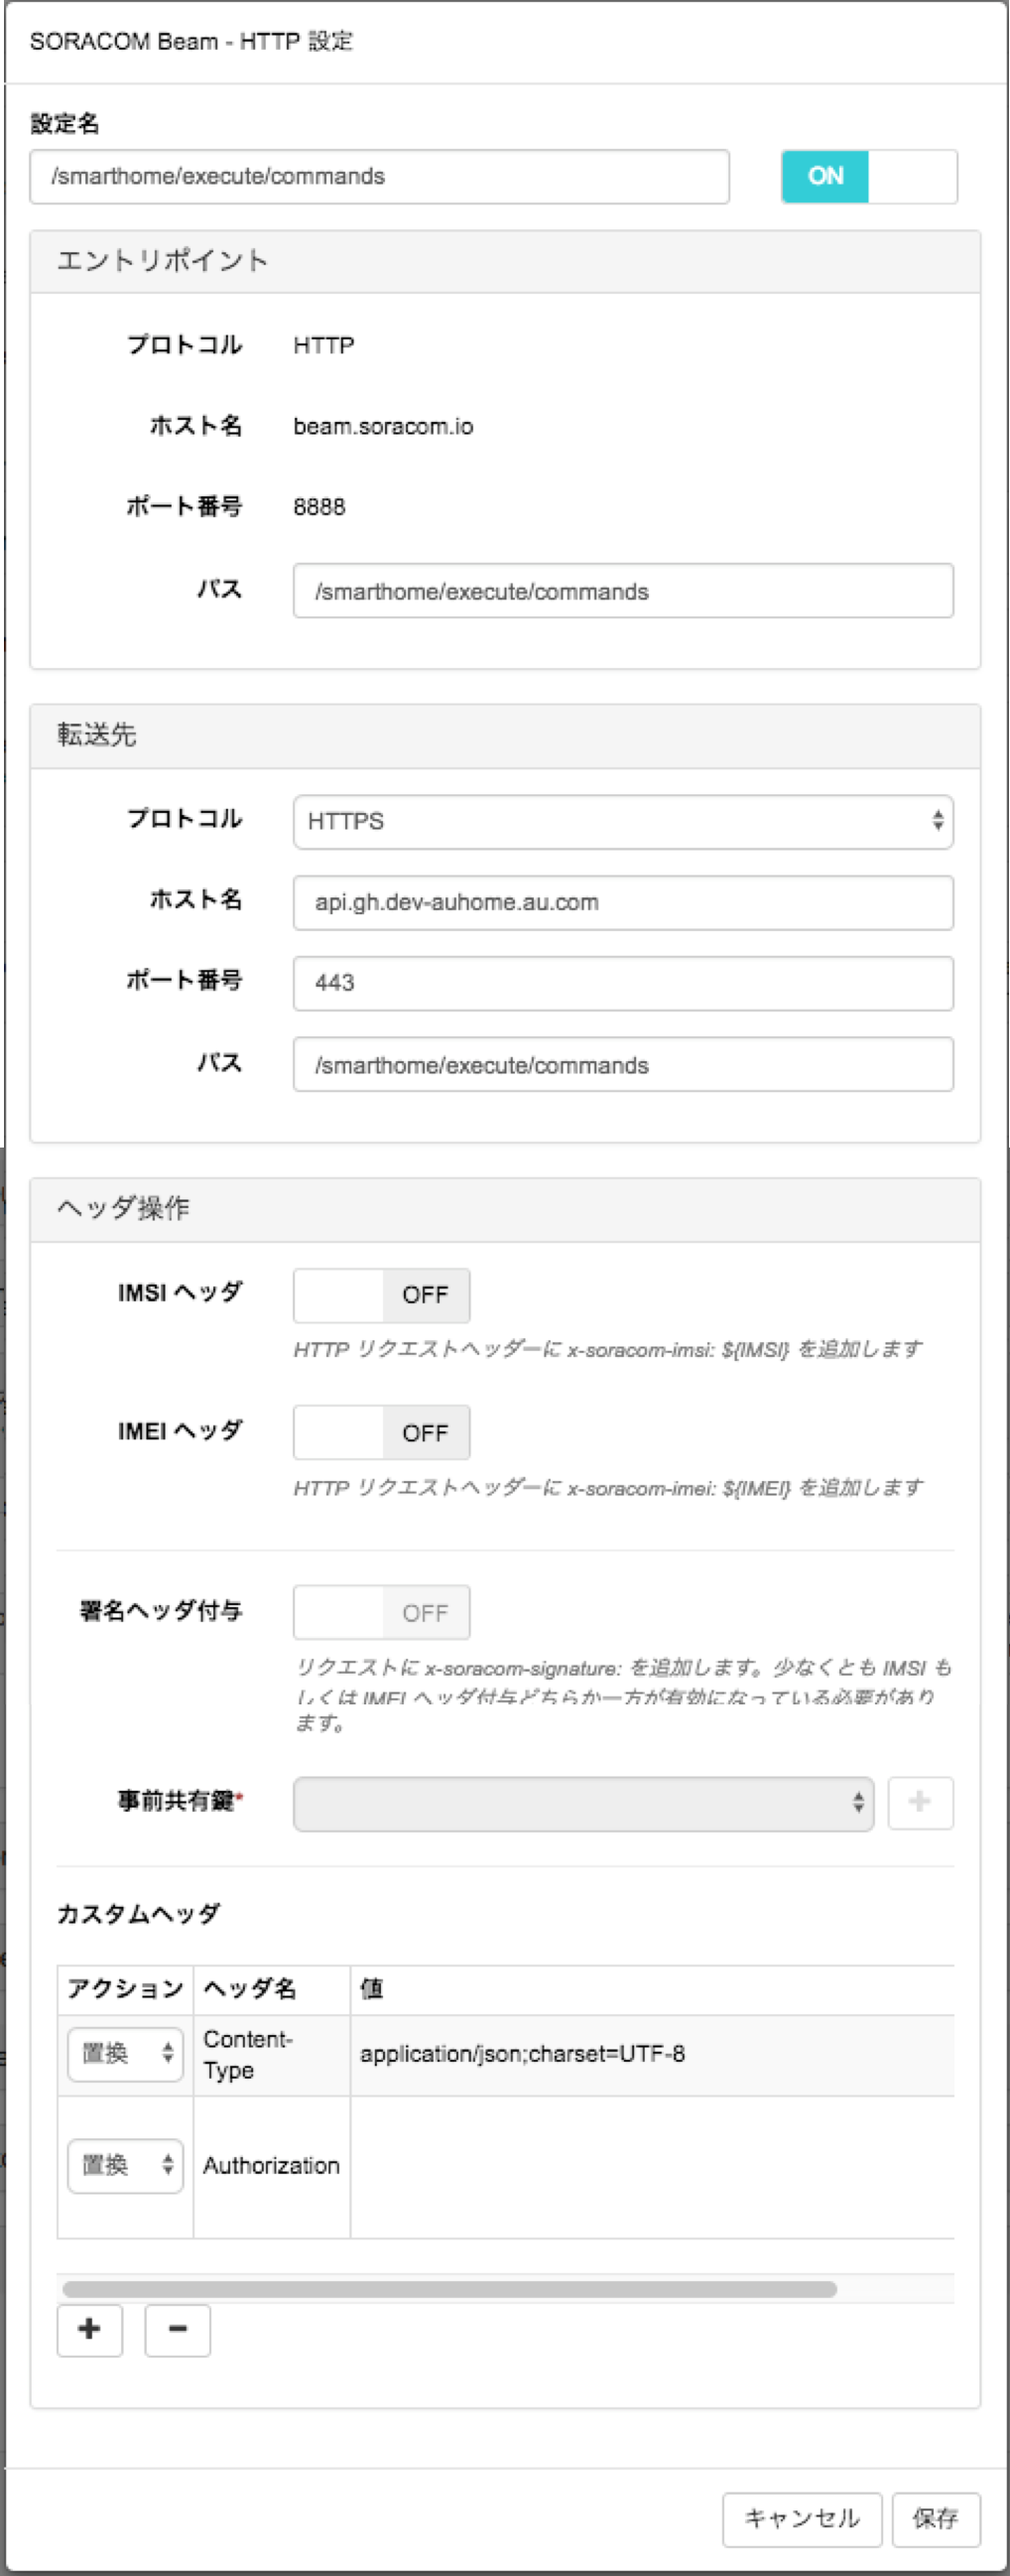
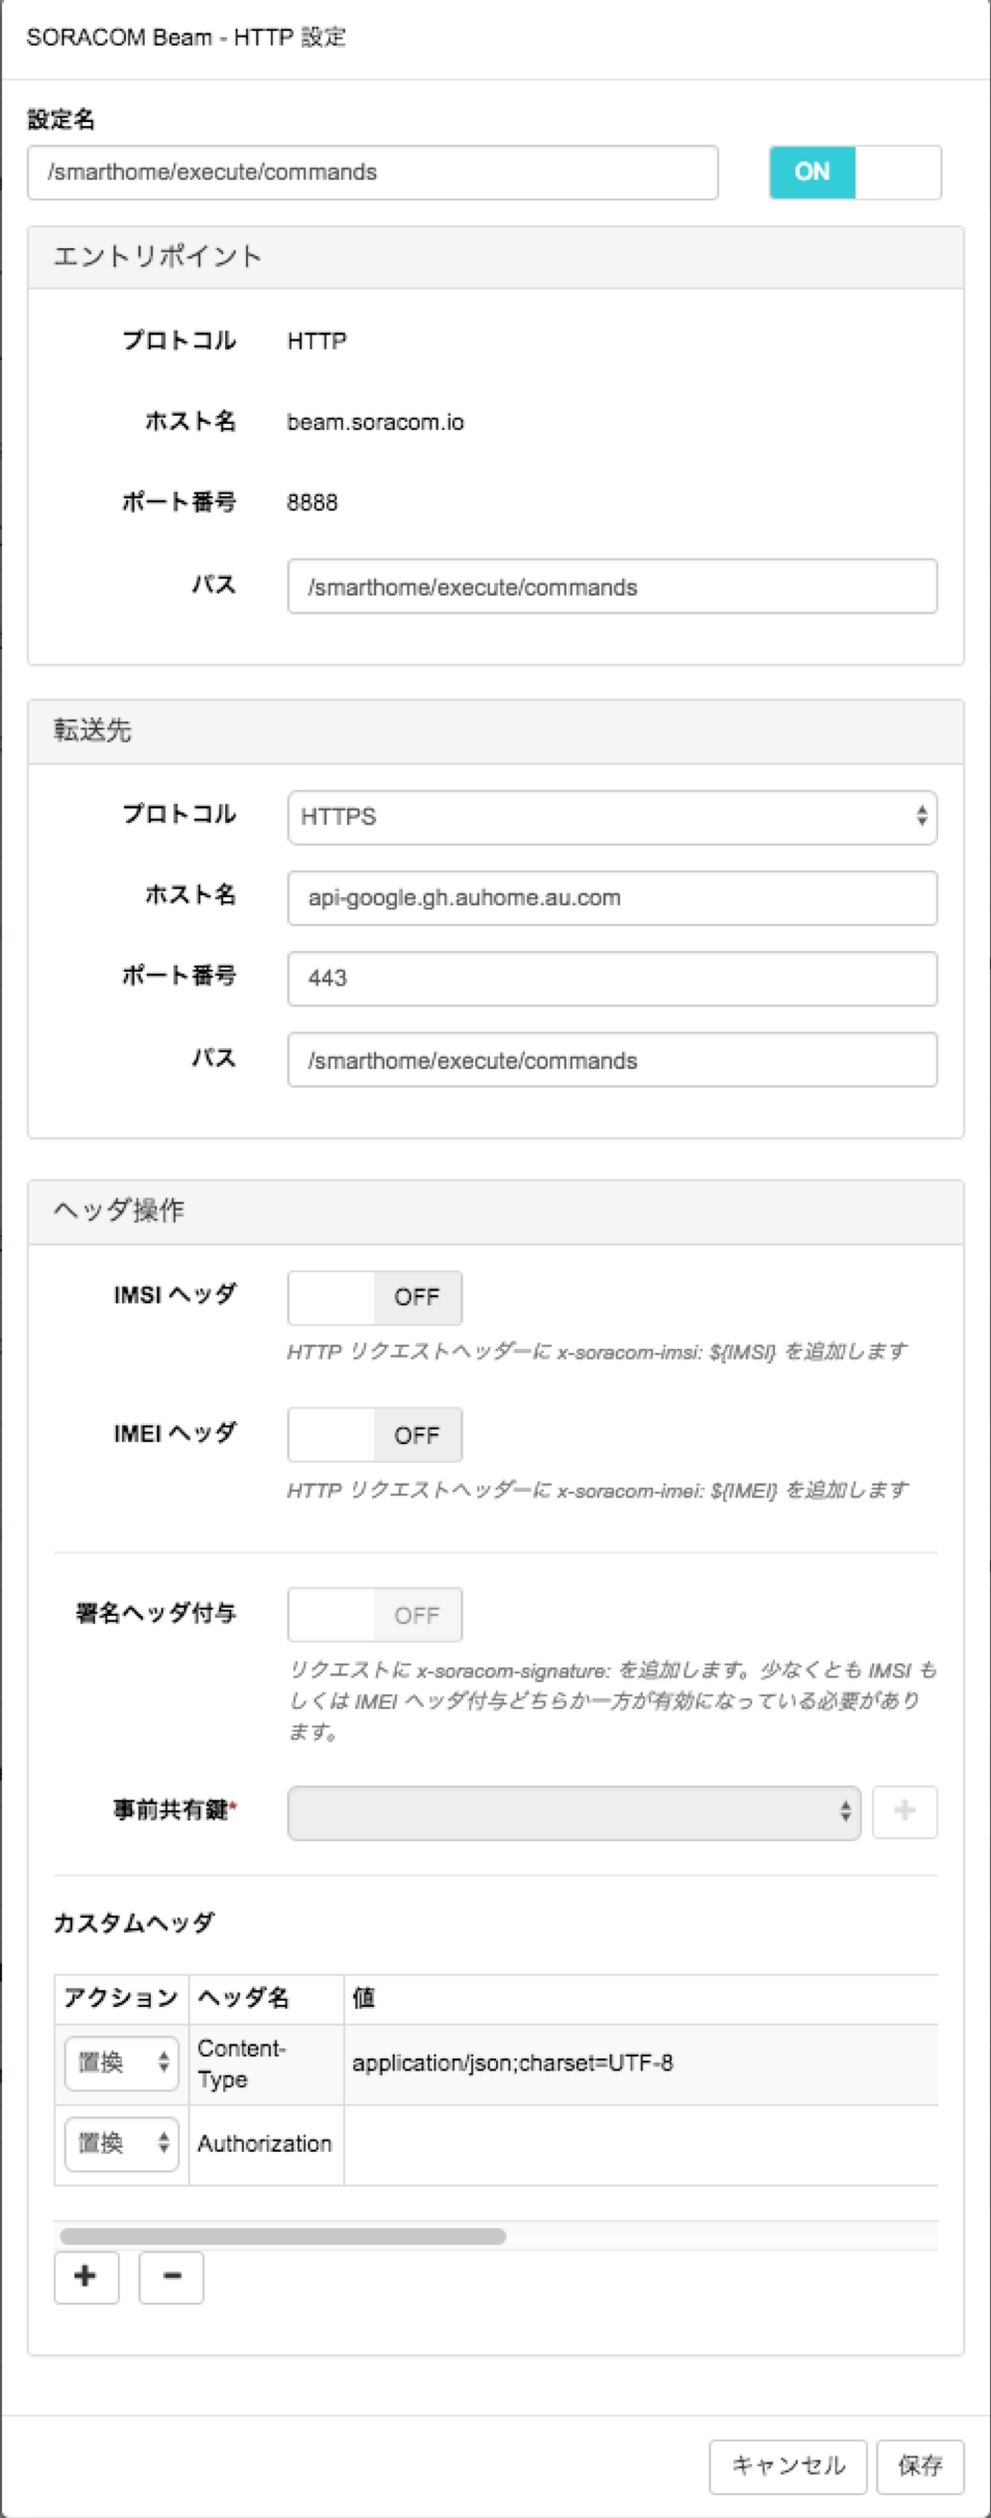
#10 赤外線リモコンに関する転送先-ホスト名を変更

diff --git a/Hello-IrRemocon-aircon/IrRemocon-aircon-guide.md b/Hello-IrRemocon-aircon/IrRemocon-aircon-guide.md
@@ -12,7 +12,7 @@ SORACOM Beamについては、以下の設定を実施してください。
 | エントリポイント-プロトコル | HTTP(SORACOM BeamのHTTPエントリポイントを選択) |
 | エントリポイント-パス | /smarthome/execute/commands |
 | 転送先-プロトコル | HTTPS |
-| 転送先-ホスト名 | api.gh.dev-auhome.au.com |
+| 転送先-ホスト名 | api-google.gh.auhome.au.com |
 | 転送先-ポート番号 | 443 |
 | 転送先-パス | /smarthome/execute/commands |
 | カスタムヘッダ(1)-アクション | 置換 |
@@ -79,3 +79,11 @@ SORACOM Beamについては、以下の設定を実施してください。
 | 除湿28度 | d28on | エアコンの除湿を28度にする |
 | 除湿29度 | d29on | エアコンの除湿を29度にする |
 | 除湿30度 | d30on | エアコンの除湿を30度にする |
+
+
+### 操作リクエストの指定について
+操作リクエストについては、配列で複数指定することが可能です。赤外線信号については指定した順に送信されます。
+
+```
+["aircon_on", "aircon_off"]
+```

diff --git a/Hello-IrRemocon-tv/IrRemocon-tv-guide.md b/Hello-IrRemocon-tv/IrRemocon-tv-guide.md
@@ -12,7 +12,7 @@ SORACOM Beamについては、以下の設定を実施してください。
 | エントリポイント-プロトコル | HTTP(SORACOM BeamのHTTPエントリポイントを選択) |
 | エントリポイント-パス | /smarthome/execute/commands |
 | 転送先-プロトコル | HTTPS |
-| 転送先-ホスト名 | api.gh.dev-auhome.au.com |
+| 転送先-ホスト名 | api-google.gh.auhome.au.com |
 | 転送先-ポート番号 | 443 |
 | 転送先-パス | /smarthome/execute/commands |
 | カスタムヘッダ(1)-アクション | 置換 |
@@ -67,3 +67,11 @@ SORACOM Beamについては、以下の設定を実施してください。
 | 番組表 | schedule | 番組表ボタンを実行する |
 | 音声切替 | audio | 音声切替ボタンを実行する |
 | dボタン | d_button | dボタンを実行する |
+
+
+### 操作リクエストの指定について
+操作リクエストについては、配列で複数指定することが可能です。赤外線信号については指定した順に送信されます。
+
+```
+["power", "ch1"]
+```

diff --git a/Hello-IrRemocon-light/IrRemocon-light-guide.md b/Hello-IrRemocon-light/IrRemocon-light-guide.md
@@ -12,7 +12,7 @@ SORACOM Beamについては、以下の設定を実施してください。
 | エントリポイント-プロトコル | HTTP(SORACOM BeamのHTTPエントリポイントを選択) |
 | エントリポイント-パス | /smarthome/execute/commands |
 | 転送先-プロトコル | HTTPS |
-| 転送先-ホスト名 | api.gh.dev-auhome.au.com |
+| 転送先-ホスト名 | api-google.gh.auhome.au.com |
 | 転送先-ポート番号 | 443 |
 | 転送先-パス | /smarthome/execute/commands |
 | カスタムヘッダ(1)-アクション | 置換 |
@@ -32,3 +32,11 @@ SORACOM Beamについては、以下の設定を実施してください。
 |---|------------|---|
 | 照明電源ON | on | 照明電源をONにする |
 | 照明電源ON | light_off | 照明電源をOFFにする |
+
+
+### 操作リクエストの指定について
+操作リクエストについては、配列で複数指定することが可能です。赤外線信号については指定した順に送信されます。
+
+```
+["on", "light_off"]
+```
